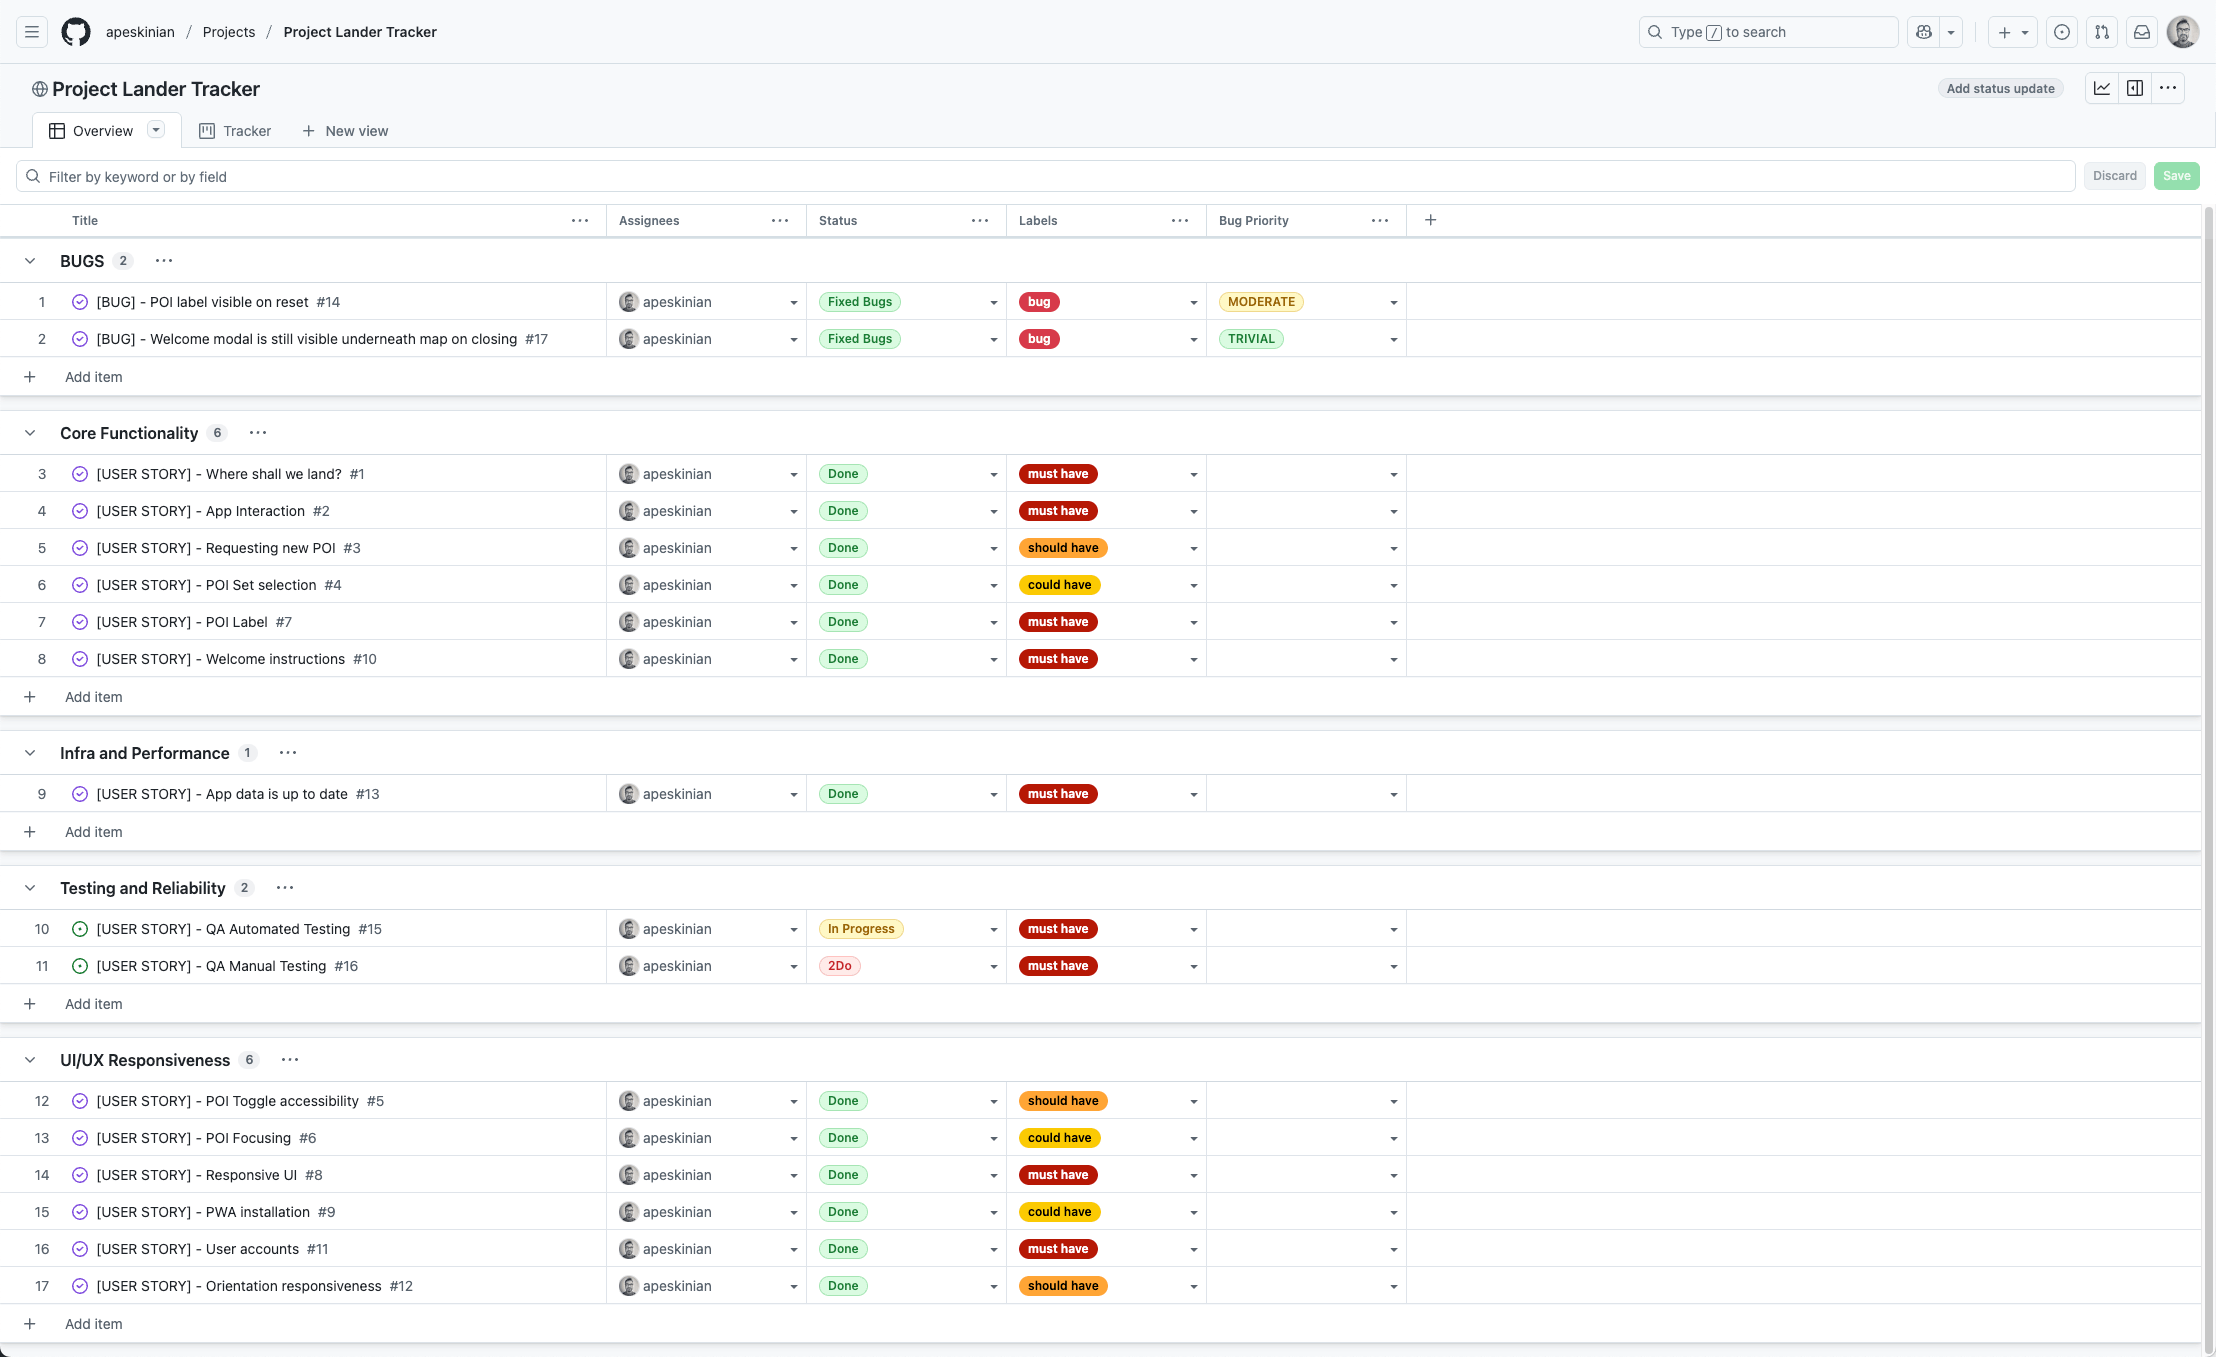
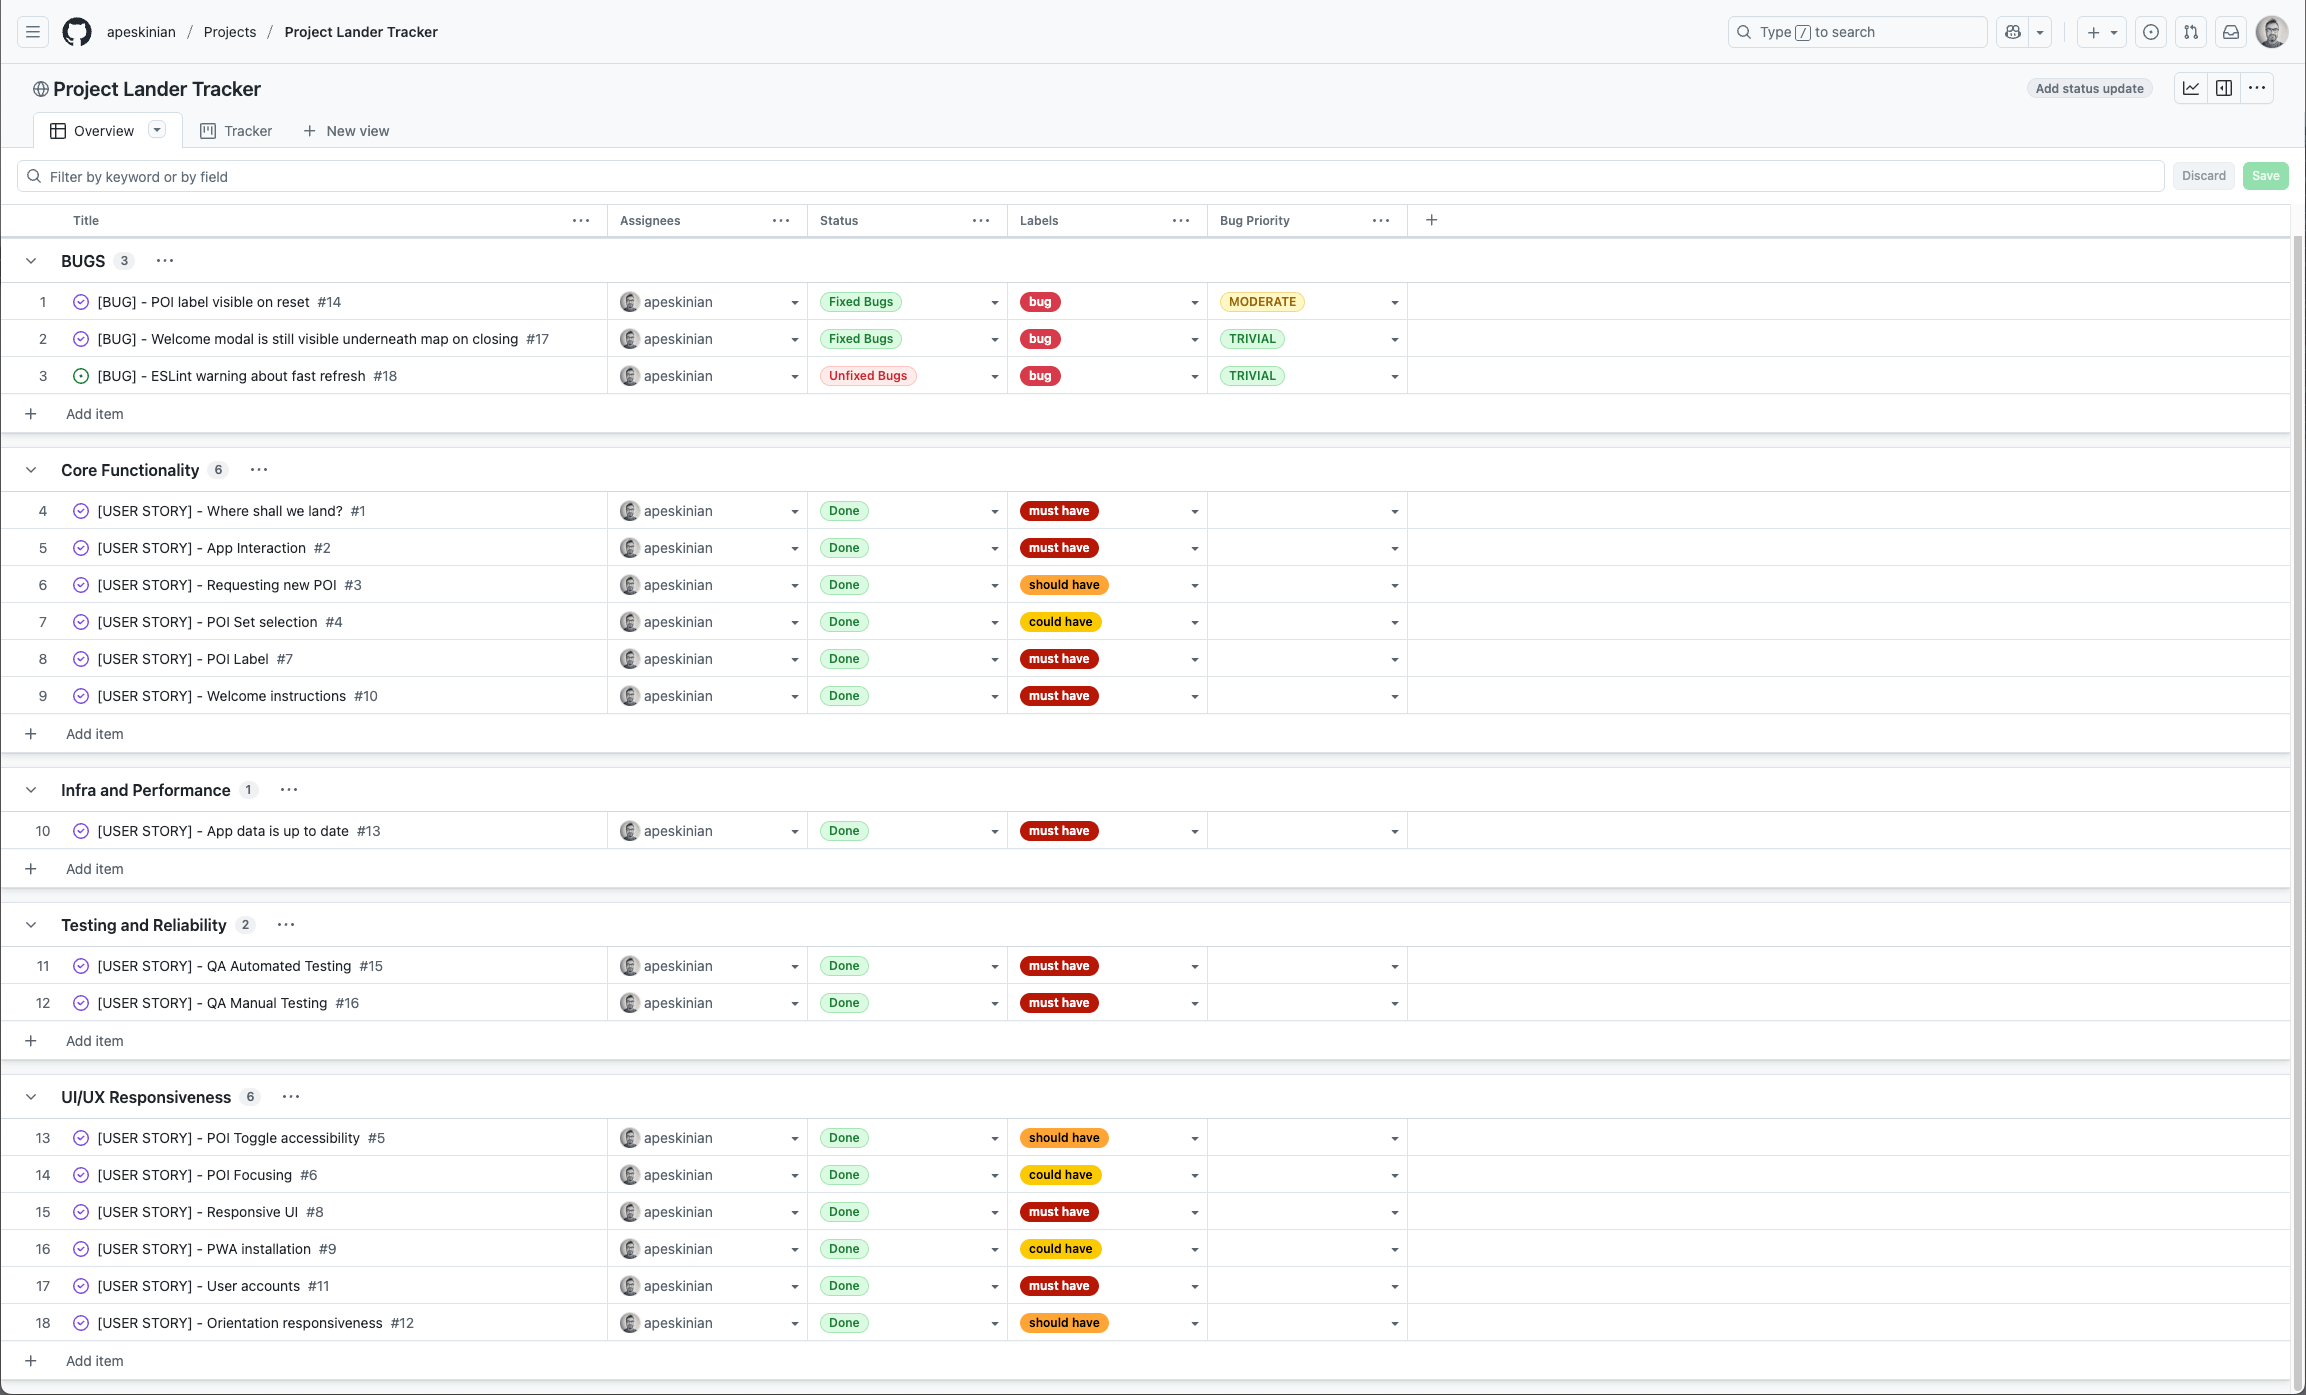
Update TESTING: bugs

diff --git a/TESTING.md b/TESTING.md
@@ -271,3 +271,39 @@ Below are the results from the full E2E test suite that I ran using Cypress:
 | [fetchingDataSteps.cy.js](/cypress/e2e/fetchingDataSteps.cy.js) | ![cypress test](documentation/testing/automated_testing/cypress/fetchingDataSteps.gif) |
 | [pageNavigation.cy.js](/cypress/e2e/pageNavigation.cy.js) | ![cypress test](documentation/testing/automated_testing/cypress/pageNavigation.gif) |
 | [poiPicking.cy.js](/cypress/e2e/poiPicking.cy.js) | ![cypress test](documentation/testing/automated_testing/cypress/poiPicking.gif) |
+
+## Bugs
+
+I've used [GitHub Issues](https://github.com/apeskinian/project_lander/issues?q=is%3Aissue%20label%3Abug) to track and manage bugs and issues during the development stages of my project.
+
+### Fixed Bugs
+
+[![GitHub issue custom search](https://img.shields.io/github/issues-search?query=repo%3Aapeskinian%2Fproject_lander%20label%3Abug&label=bugs)](https://www.github.com/apeskinian/project_lander/issues?q=is%3Aissue+is%3Aclosed+label%3Abug)
+
+All previously closed/fixed bugs can be tracked [here](https://www.github.com/apeskinian/project_lander/issues?q=is%3Aissue+is%3Aclosed+label%3Abug).
+
+| Bug | Status |
+| --- | --- |
+| [[BUG] - Welcome modal is still visible underneath map on closing](https://github.com/apeskinian/project_lander/issues/17) | Closed |
+| [[BUG] - POI label visible on reset](https://github.com/apeskinian/project_lander/issues/14) | Closed |
+
+### Closed Issues
+
+[![GitHub closed issues](https://img.shields.io/github/issues-closed/apeskinian/project_lander)](https://github.com/apeskinian/project_lander/issues?q=is%3Aissue+is%3Aclosed)
+
+Closed issues can be tracked [here](https://github.com/apeskinian/project_lander/issues?q=is%3Aissue+is%3Aclosed)
+
+### Open Issues
+
+[![GitHub open issues](https://img.shields.io/github/issues/apeskinian/project_lander)](https://www.github.com/apeskinian/project_lander/issues)
+
+Any remaining open issues can be tracked [here](https://www.github.com/apeskinian/project_lander/issues).
+
+| Issue | Status |
+| --- | --- |
+| [[BUG] - ESLint warning about fast refresh](https://github.com/apeskinian/project_lander/issues/18) | Unfixed Bug |
+
+### Other Known Issues
+
+> [!IMPORTANT]
+> There are no remaining bugs that I am aware of, though, even after thorough testing, I cannot rule out the possibility.

diff --git a/README.md b/README.md
@@ -489,5 +489,5 @@ To preview the production build before deploying:
 
 ### Acknowledgements
 
-- I would like to thank my sister Natalie and my good friend, [Tim Nelson](https://github.com/TravelTimN) for their feedback and testing throughout the development of this project.
-- I would like to thank my daughter Niamh, my sisters Laura & Natalie and my whole family for the continued moral support; it keeps me going during periods of self doubt and imposter syndrome.
+- I would like to thank my sister Natalie, and my good friend [Tim Nelson](https://github.com/TravelTimN) for their feedback and testing throughout the development of this project.
+- I would like to thank my daughter Niamh, my sisters Laura & Natalie, and my whole family for the continued moral support; it keeps me going during periods of self doubt and imposter syndrome.
